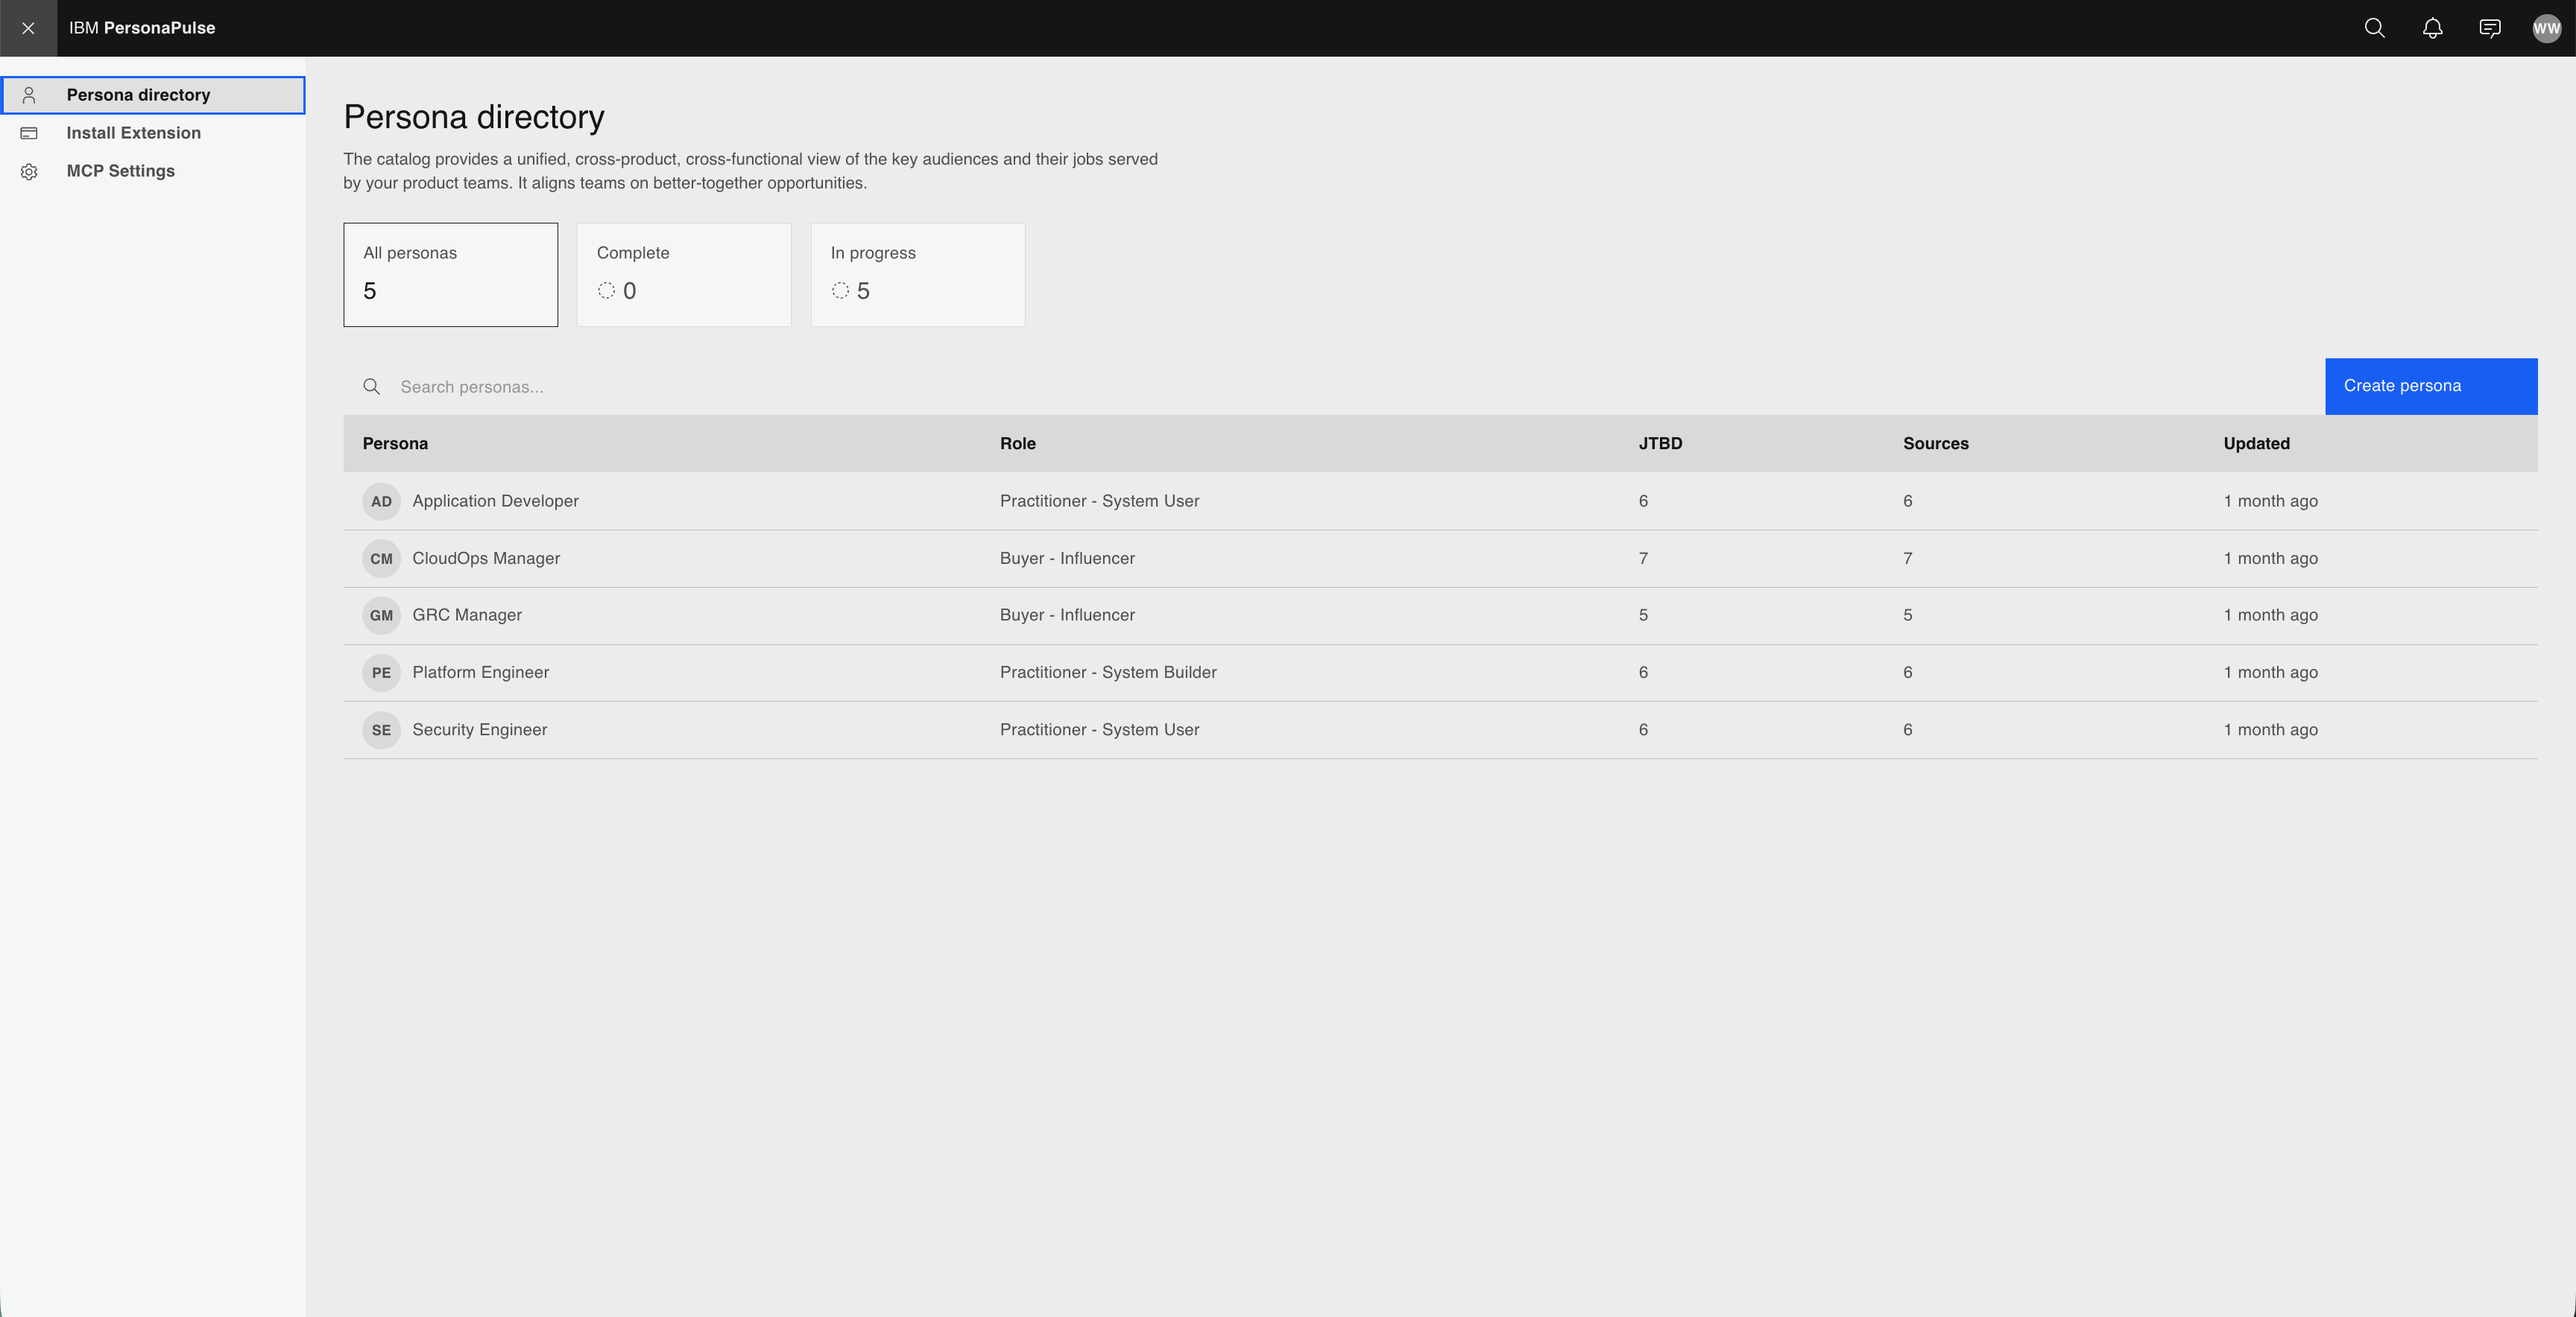
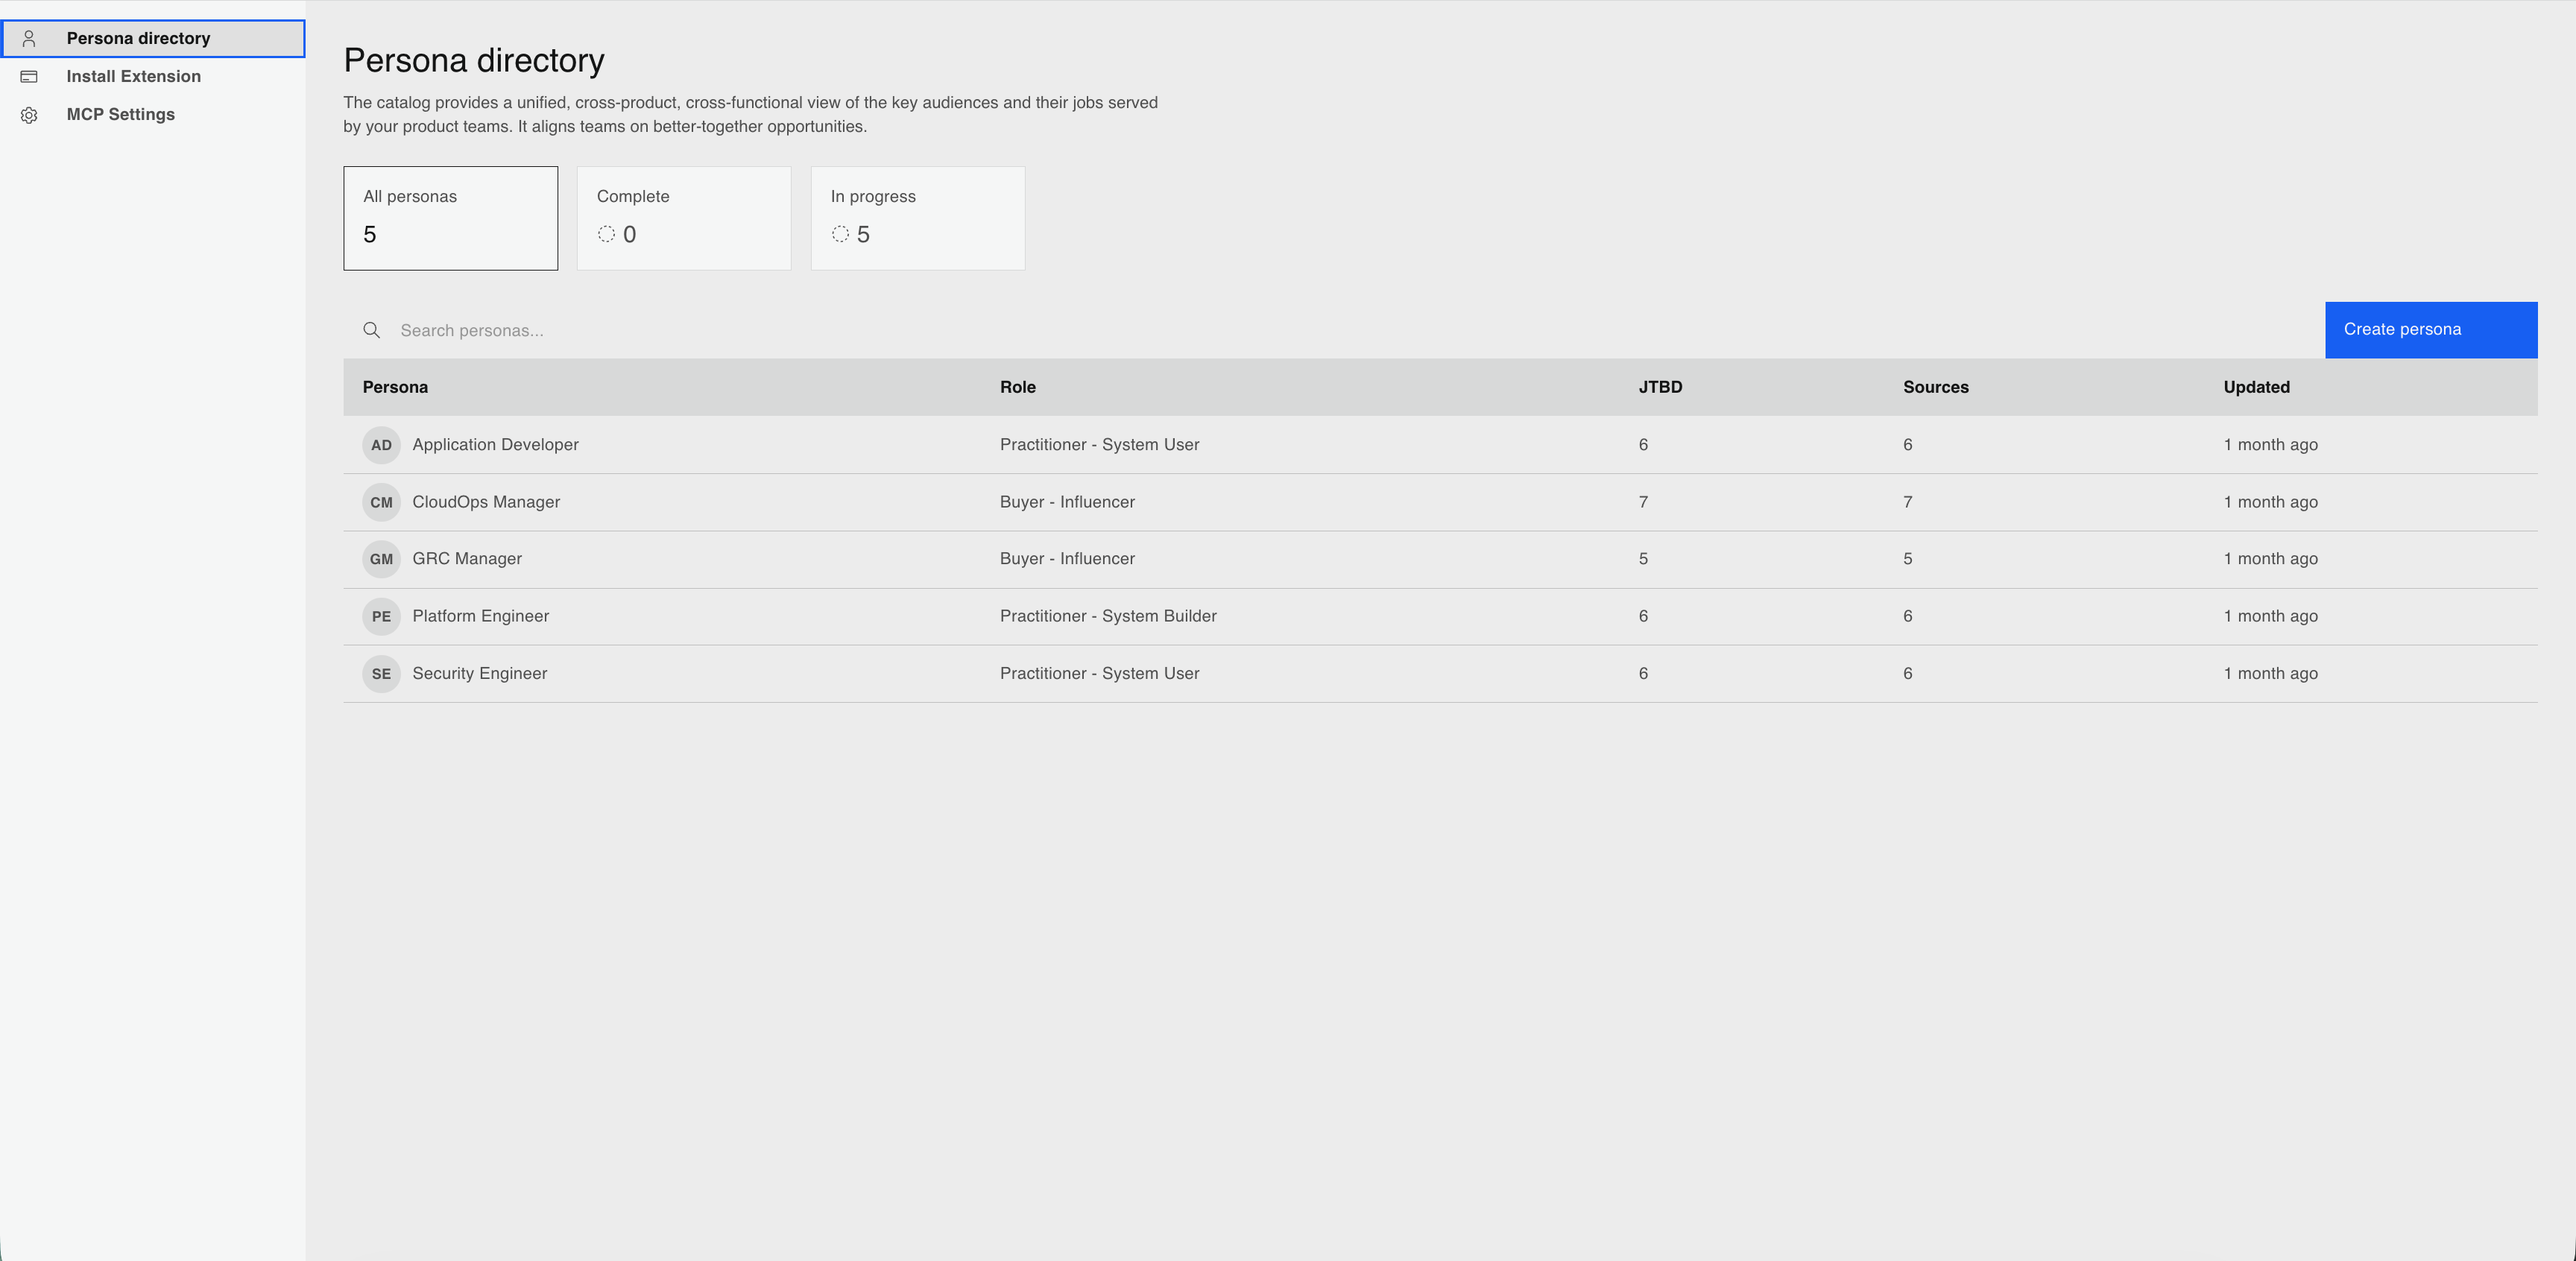
Fix IBM mockup blur bleed and enlarge intro sequence text
- Clip the blurred screenshot to the MacBook frame's screen cutout
  (new .cs-project-screen-clip wrapper with overflow:hidden) so the
  blur filter can no longer bleed onto the frame's bezel/notch
- Crop the real app-chrome headers off screen1.png and screen3.png:
  once the blur stopped bleeding, those headers rendered as solid
  bars near-identical to the frame color, so they read as visible
  stray bars once contained
- Bump intro word font-size 45px -> 65px and reposition all 7 words
  (A / UX / & / PRODUCT / DESIGNER / WHO / TURNS) to match the
  updated "home page animation" Figma frame (node 1546:215)

Claude-Session: https://claude.ai/code/session_01GLSHY7RKaSTLRma9boChQw

diff --git a/ibm.html b/ibm.html
@@ -65,7 +65,7 @@
 
           <div class="cs-project-card">
             <div class="cs-project-shot">
-              <img class="cs-project-screen" src="assets/ibm/screen1.png" alt="" />
+              <div class="cs-project-screen-clip"><img class="cs-project-screen" src="assets/ibm/screen1.png" alt="" /></div>
               <div class="cs-project-frost"></div>
               <img class="cs-project-macbook" src="assets/ibm/macbook.png" alt="" />
             </div>
@@ -74,7 +74,7 @@
 
           <div class="cs-project-card">
             <div class="cs-project-shot">
-              <img class="cs-project-screen" src="assets/ibm/screen2.png" alt="" />
+              <div class="cs-project-screen-clip"><img class="cs-project-screen" src="assets/ibm/screen2.png" alt="" /></div>
               <div class="cs-project-frost"></div>
               <img class="cs-project-macbook" src="assets/ibm/macbook.png" alt="" />
             </div>
@@ -83,7 +83,7 @@
 
           <div class="cs-project-card">
             <div class="cs-project-shot">
-              <img class="cs-project-screen" src="assets/ibm/screen3.png" alt="" />
+              <div class="cs-project-screen-clip"><img class="cs-project-screen" src="assets/ibm/screen3.png" alt="" /></div>
               <div class="cs-project-frost"></div>
               <img class="cs-project-macbook" src="assets/ibm/macbook.png" alt="" />
             </div>

diff --git a/intro.css b/intro.css
@@ -152,19 +152,19 @@
 .intro-word {
   font-family: 'CommitMono', monospace;
   font-weight: 400;
-  font-size: 45px;
+  font-size: 65px;
   line-height: 1;
   color: #fcfcfc;
   white-space: nowrap;
   opacity: 0;
 }
-#intro-word-a { left: 237px; top: 366px; }
-#intro-word-ux { left: 550px; top: 267px; }
-#intro-word-product { left: 859px; top: 247px; }
-#intro-word-amp { left: 617px; top: 312px; }
-#intro-word-designer { left: 1119px; top: 389px; }
-#intro-word-who { left: 411px; top: 667px; }
-#intro-word-turns { left: 781px; top: 626px; }
+#intro-word-a { left: 231px; top: 367px; }
+#intro-word-ux { left: 517px; top: 247px; }
+#intro-word-product { left: 851px; top: 292px; }
+#intro-word-amp { left: 608px; top: 304px; }
+#intro-word-designer { left: 1032px; top: 432px; }
+#intro-word-who { left: 377px; top: 675px; }
+#intro-word-turns { left: 742px; top: 620px; }
 
 /* ---------- phase C: "CURIOSITY" assembling, its O filled with a photo ---------- */
 

diff --git a/casestudy.css b/casestudy.css
@@ -137,12 +137,20 @@ body {
    the screen (measured directly off its alpha channel, not just Figma's
    declared child offset, since the two layers aren't pixel-registered),
    so the frame's own notch/bezel renders on top of it untouched. */
-.cs-project-shot .cs-project-screen {
+.cs-project-shot .cs-project-screen-clip {
   position: absolute;
   left: 10.18%;
   top: 13.18%;
   width: 79.61%;
   height: 75.84%;
+  overflow: hidden;
+}
+
+.cs-project-shot .cs-project-screen {
+  position: absolute;
+  inset: 0;
+  width: 100%;
+  height: 100%;
   object-fit: cover;
   filter: blur(4px);
 }

diff --git a/index.html b/index.html
@@ -6,7 +6,7 @@
 <title>Home — Portfolio</title>
 <link rel="stylesheet" href="shared.css?v=5" />
 <link rel="stylesheet" href="hero.css?v=14" />
-<link rel="stylesheet" href="intro.css?v=11" />
+<link rel="stylesheet" href="intro.css?v=12" />
 </head>
 <body>
   <div id="intro-overlay" class="intro-overlay" data-name="home page animation">
